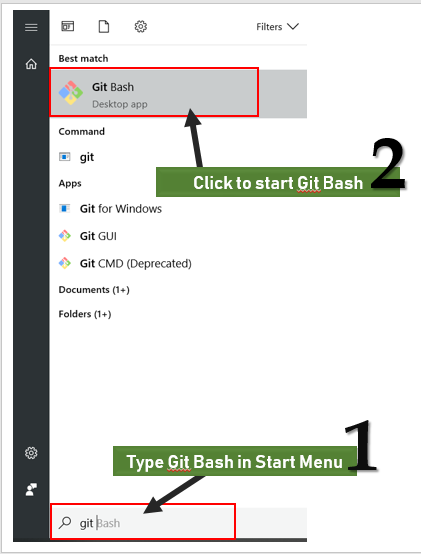
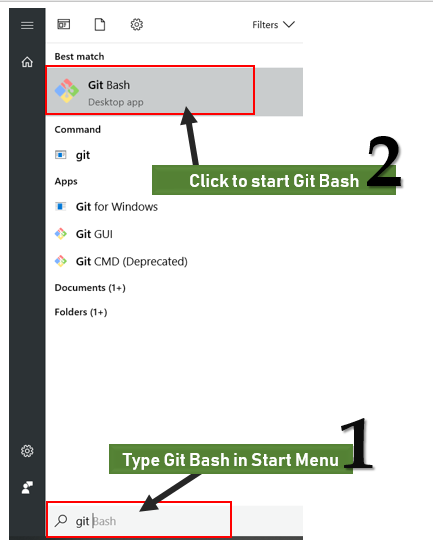
Lesson 2: Screenshots 11 and 12 cropped

Changed region(s): [[0.0, 0.0, 1.0, 1.0], [0.6793, 0.1243, 0.7411, 0.2176]]

diff --git a/Lesson-2.md b/Lesson-2.md
@@ -30,6 +30,8 @@ If you see the screen below, we good...
 <pre>
 </pre>
 
+## Working With The Terminal
+
  
 
 
